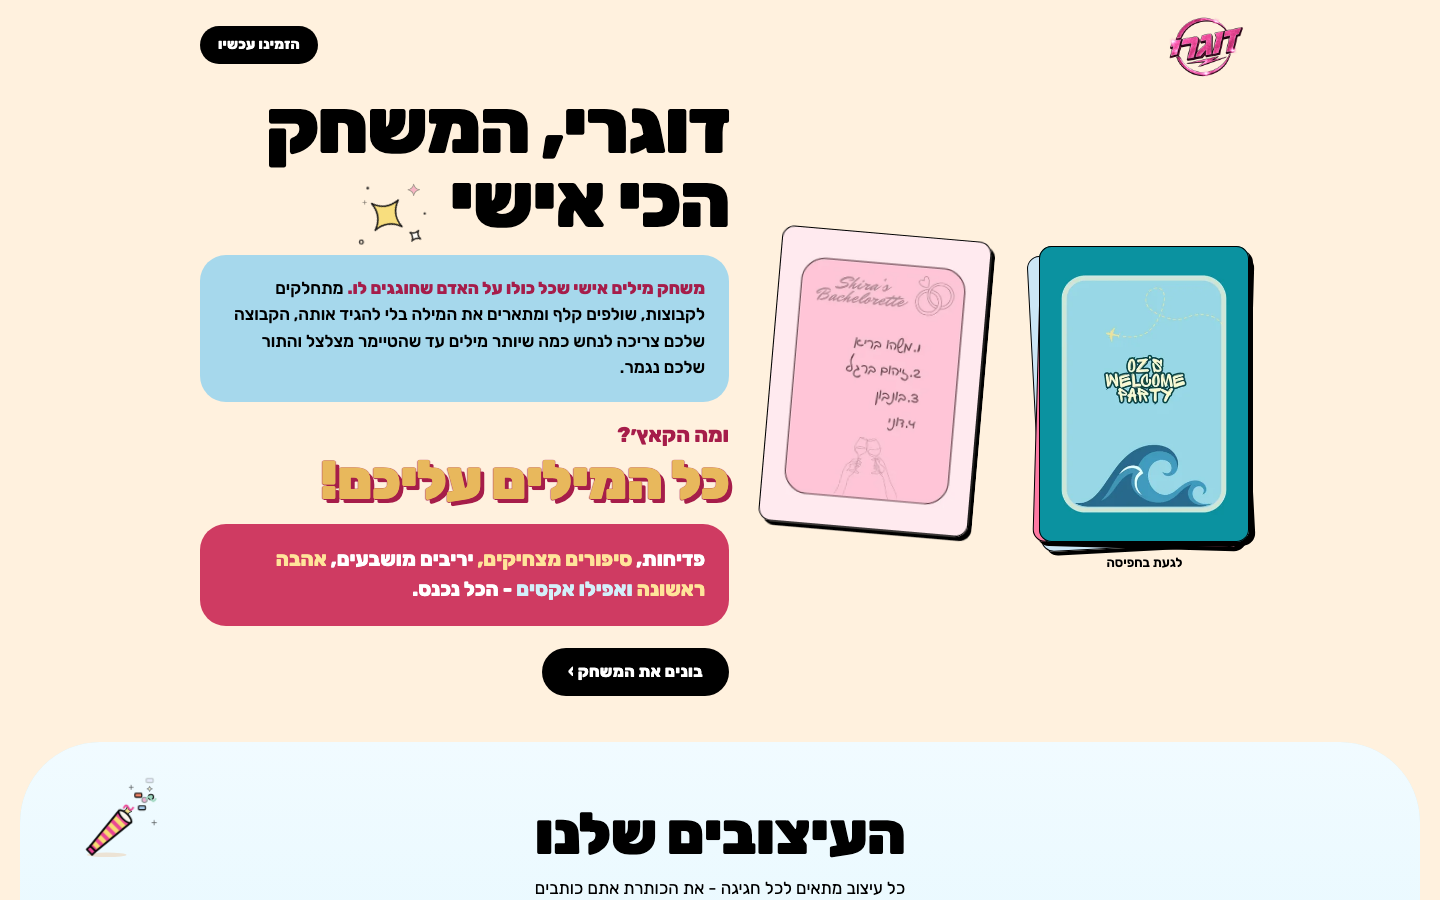
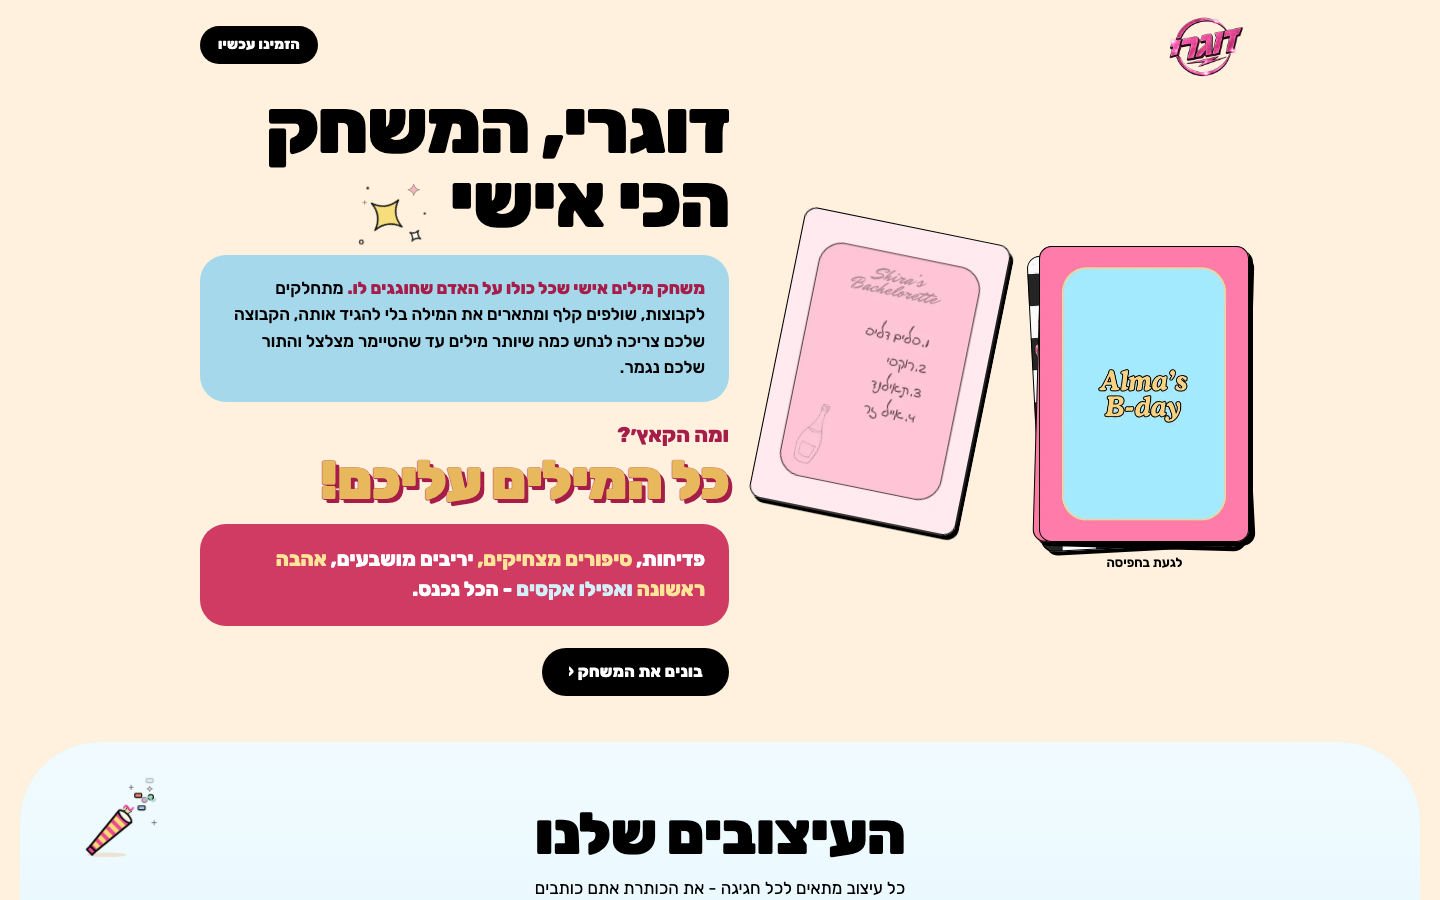
docs(redesign): r11 link arrows point forward in RTL, story text fixed
Every "בונים את המשחק" link ends in "‹" (forward, to the left, in RTL), and
the story reads "מרגשת אותנו!" without the space. Shots retaken, photos blurred.

Changed region(s): [[0.5, 0.2489, 0.875, 0.6222]]

diff --git a/redesign/directions/r11.html b/redesign/directions/r11.html
@@ -280,7 +280,7 @@
         <p class="pn sky"><b>משחק מילים אישי שכל כולו על האדם שחוגגים לו.</b> מתחלקים לקבוצות, שולפים קלף ומתארים את המילה בלי להגיד אותה, הקבוצה שלכם צריכה לנחש כמה שיותר מילים עד שהטיימר מצלצל והתור שלכם נגמר.</p>
         <p class="catch"><span class="q">ומה הקאץ׳?</span> <span class="big">כל המילים עליכם!</span></p>
         <p class="pn rose">פדיחות, <span class="y">סיפורים מצחיקים,</span> יריבים מושבעים, <span class="y">אהבה ראשונה</span> <span class="b">ואפילו אקסים</span> - הכל נכנס.</p>
-        <div class="cta"><a class="pill" href="#order">בונים את המשחק ›</a></div>
+        <div class="cta"><a class="pill" href="#order">בונים את המשחק ‹</a></div>
       </div>
     </div>
     </section>
@@ -293,7 +293,7 @@
     <div class="strip" id="strip" aria-label="העיצובים"></div>
     <div class="strip-hint" aria-hidden="true">← החליקו →</div>
     <div class="order">
-      <a class="pill" href="#">בונים את המשחק ›</a>
+      <a class="pill" href="#">בונים את המשחק ‹</a>
       <span class="price">חפיסה ולוח: <span class="tok">{price}</span></span>
       <a class="wa-line" href="https://wa.me/972552441334">יש שאלה? דברו איתנו בוואטסאפ</a>
     </div>
@@ -339,7 +339,7 @@
         <span class="sticker">הסיפור שלנו</span>
         <h2 id="h-story">איך דוגרי נולד<span class="illo inl glass" aria-hidden="true"><svg class="il" viewBox="0 0 120 120" aria-hidden="true" focusable="false"><ellipse cx="60" cy="106" rx="26" ry="3.5" fill="#ece3d5" class="n"/><g class="a i13r" style="--d:10s;--dl:0s;--o:50% 50%;"><path class="n" d="M44,33 C44,48 56,55 57.5,62 C56,69 44,76 44,91 L76,91 C76,76 64,69 62.5,62 C64,55 76,48 76,33Z" fill="#fffdf8"/><g class="a i13a" style="--d:10s;--dl:0s;--o:50% 50%;"><path class="n" d="M47.5,38 C49,49 55,55 60,60 C65,55 71,49 72.5,38 Q60,41 47.5,38Z" fill="#f7dc72"/></g><g class="a i13b" style="--d:10s;--dl:0s;--o:50% 50%;"><path class="n" d="M46,92 Q49,79 60,77 Q71,79 74,92Z" fill="#f7dc72"/></g><path d="M60,63 V89" stroke="#f2c14e" stroke-width="1.6" class="a i13s" style="--d:10s"/><path d="M44,33 C44,48 56,55 57.5,62 C56,69 44,76 44,91 M76,33 C76,48 64,55 62.5,62 C64,69 76,76 76,91"/><path class="h" d="M48,36 C48,44 51,49 54,53 C51,48 50,43 50.5,36Z" opacity=".9"/><rect x="38" y="91" width="44" height="7" rx="3" fill="#f7b58e"/><rect x="38" y="26" width="44" height="7" rx="3" fill="#f7b58e"/><rect x="38.5" y="33" width="4" height="58" rx="2" fill="#ece3d5"/><rect x="77.5" y="33" width="4" height="58" rx="2" fill="#ece3d5"/></g><g class="a tw" style="--d:4s;--dl:0s;--o:50% 50%;"><path d="M22.0,27.0 Q22.8,31.2 27.0,32.0 Q22.8,32.8 22.0,37.0 Q21.2,32.8 17.0,32.0 Q21.2,31.2 22.0,27.0Z" fill="#f7dc72" /></g><g class="a tw" style="--d:5s;--dl:-2s;--o:50% 50%;"><path class="t" d="M96.0,36.0H104.0M100.0,32.0V40.0" /></g><circle class="t" cx="98" cy="80" r="2.4" fill="none"/><circle cx="22" cy="76" r="1.6" fill="#1b1a19" stroke="none"/></svg></span></h2>
         <p>נעים להכיר - הדר ועלמה, חברות הכי טובות מגיל שנה והשתיים האלה בחבורה שתמיד מתכננות הכל. התחלנו לתכנן את מסיבת הרווקות של שירה וחיפשנו מתנה שתגרום לערב להרגיש כאילו הוא נכתב עליה וגם (!) יהיה קורע מצחוק, ולא מצאנו. אז ישבנו והמצאנו את דוגרי.</p>
-        <p>מאז הפכנו את זה למקצוע - לוקחים את הסיפורים הכי מצחיקים, מביכים ומרגשים שלכם והופכים אותם למשחק אישי אחד ויחיד. כל הזמנה שלכם מרגשת אותנו !</p>
+        <p>מאז הפכנו את זה למקצוע - לוקחים את הסיפורים הכי מצחיקים, מביכים ומרגשים שלכם והופכים אותם למשחק אישי אחד ויחיד. כל הזמנה שלכם מרגשת אותנו!</p>
         <p class="sign">הדר ועלמה</p>
       </div>
     </div>
@@ -352,7 +352,7 @@
     <div class="info">
       <h3 id="floodName"></h3>
       <p>כל עיצוב מתאים לכל חגיגה - את הכותרת אתם כותבים · <span class="tok">{price}</span></p>
-      <a class="pill" href="#" id="floodOrder">בונים את המשחק ›</a>
+      <a class="pill" href="#" id="floodOrder">בונים את המשחק ‹</a>
       <span class="swipe" aria-hidden="true">החליקו למטה כדי לחזור</span>
     </div>
   </div>

diff --git a/redesign/directions/README-r11.md b/redesign/directions/README-r11.md
@@ -71,9 +71,9 @@ impeccable's detector still reports, accepted:
 - **`cream-palette`:** her page colour.
 - **`flat-type-hierarchy`:** reads the hidden flood and sheet headings, as in r10.
 
-Open, for her:
-- "בונים את המשחק ›" keeps the live site's arrow, which points backward in RTL.
-- "מרגשת אותנו !" (a space before "!") is her live story text, word for word.
+Her follow-ups, done:
+- Every "בונים את המשחק" link now ends in "‹", which points forward (left) in RTL. There are three, in the hero, under the strip and in the design flood; the FAQ page has none.
+- The story text reads "מרגשת אותנו!" (no space before "!"). The live site's text still has the space.
 - The sticker "הסיפור שלנו" is kept from r9.
 
 ## Files
